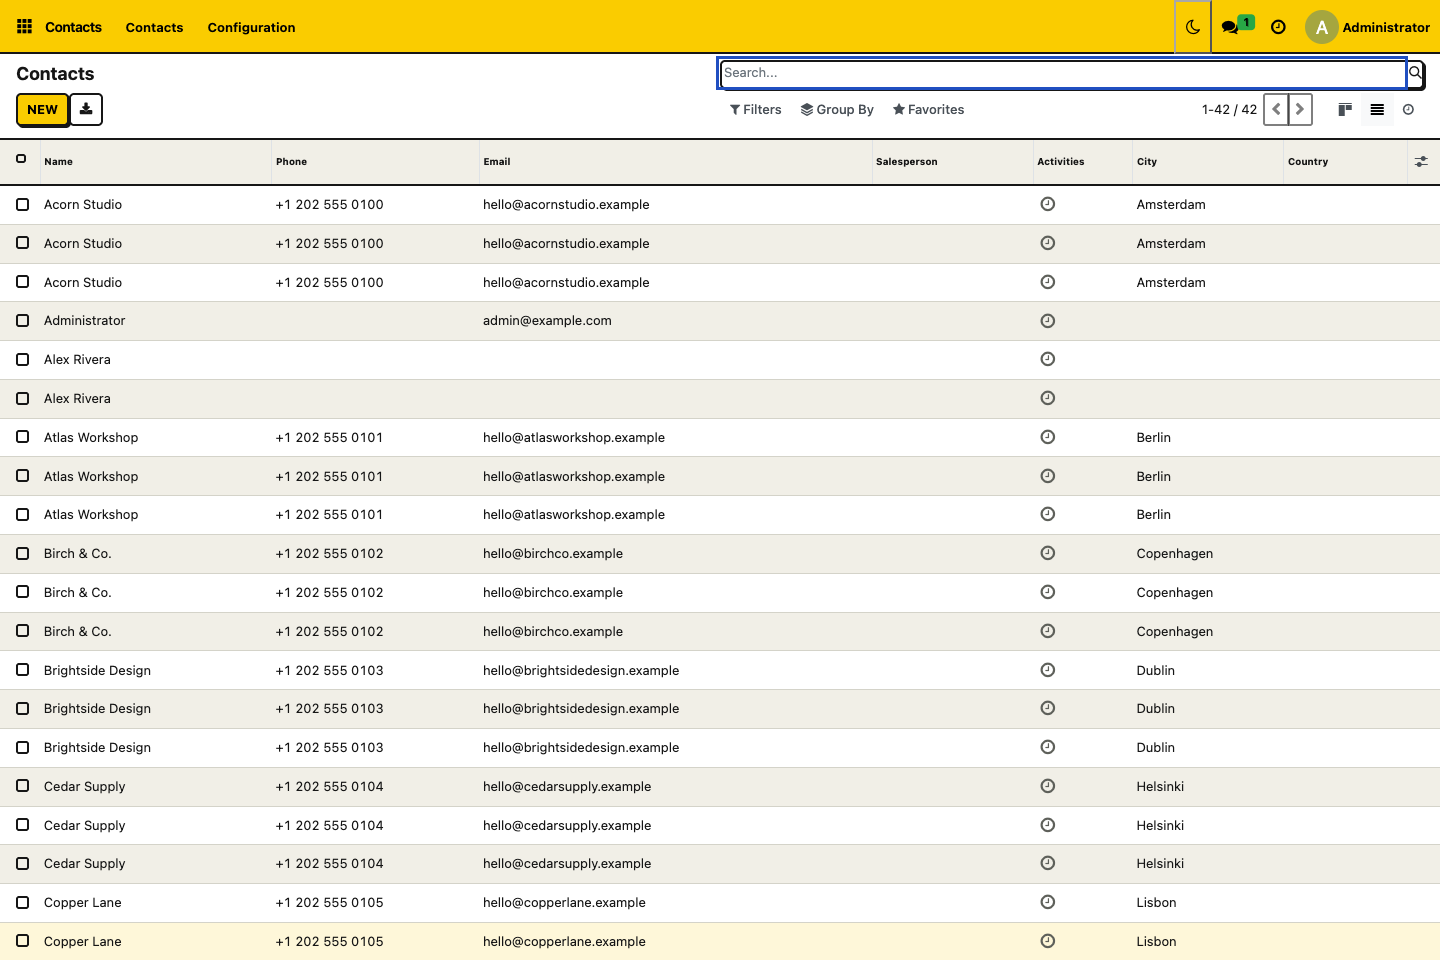
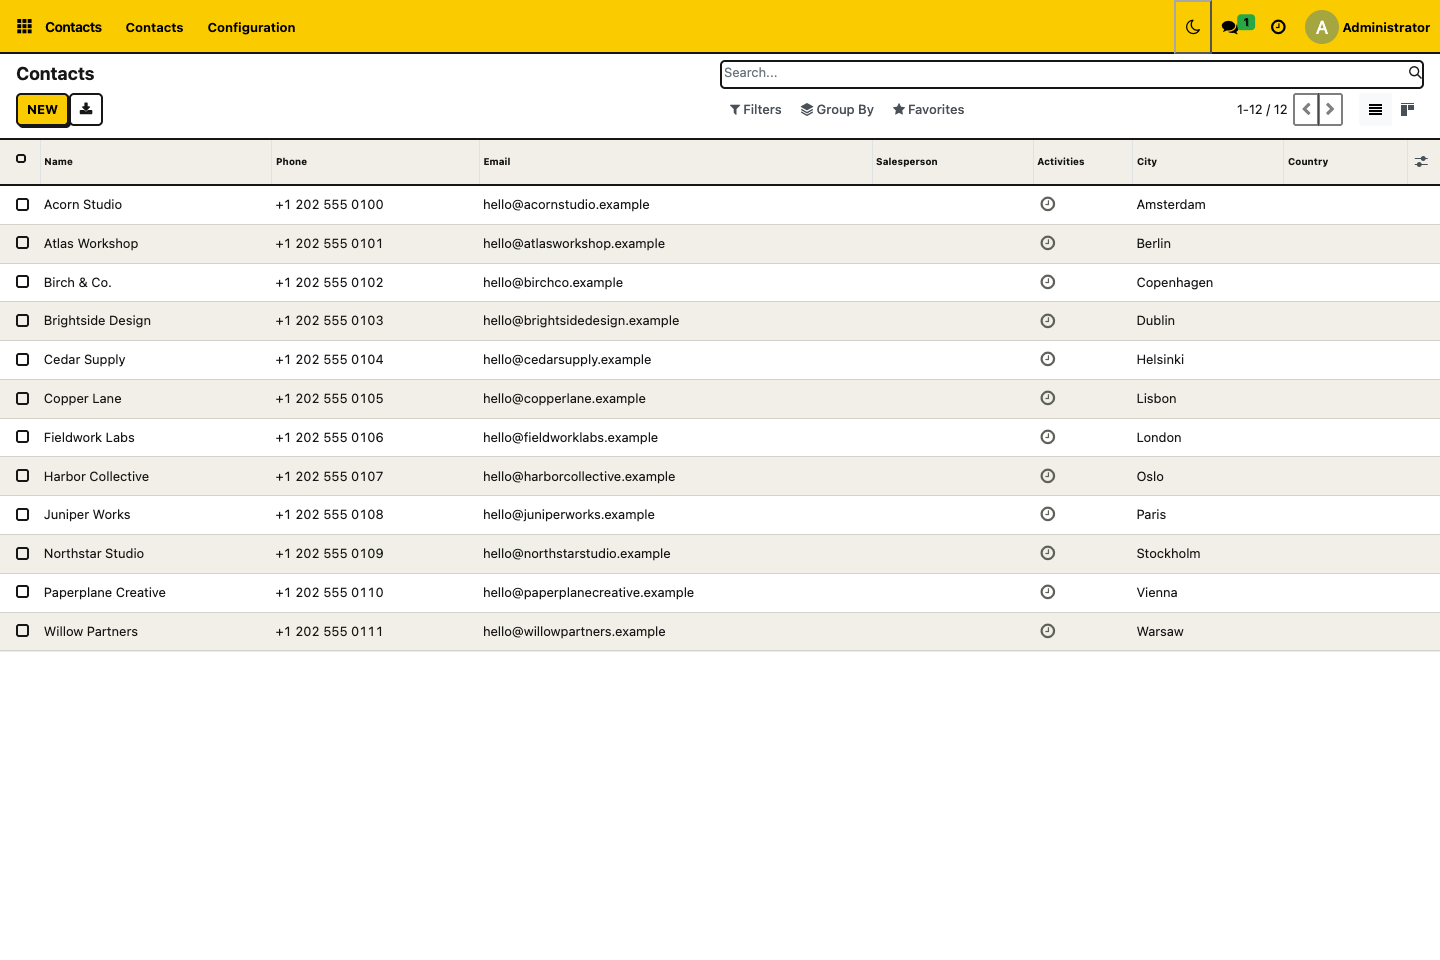
Add RivetFox branding to Odoo 16.0 marketplace artwork

diff --git a/tools/marketplace/motion.html b/tools/marketplace/motion.html
@@ -1,23 +1,25 @@
 <!doctype html>
 <html lang="en">
 <meta charset="utf-8"><title>Neo Brutal — actual screen comparisons</title>
+<link rel="stylesheet" href="../branding/brand.css">
 <style>
-*{box-sizing:border-box}body{margin:0;font-family:Arial,Helvetica,sans-serif;color:#161616;background:#f7f5ee}.canvas{position:relative;width:1120px;height:760px;border:3px solid #161616;overflow:hidden}.eyebrow{font:700 14px monospace;letter-spacing:1.5px}.title{font-size:42px;letter-spacing:-1.5px;font-weight:800;line-height:1.05;margin:13px 0}.header{position:absolute;top:26px;left:34px;right:34px;display:flex;justify-content:space-between;align-items:center}.modes{display:flex;border:2px solid #161616;box-shadow:4px 4px #161616;background:white}.modes span{font:700 14px monospace;padding:12px 19px}.modes .active{background:#facc00}.screen{border:3px solid #161616;box-shadow:8px 8px #161616;overflow:hidden;position:absolute;background:white}.screenbar{height:27px;background:#fff;border-bottom:2px solid #161616;font:700 10px monospace;padding:6px 12px;letter-spacing:.7px}.screenbody{position:relative;overflow:hidden;height:100%}.screen img{position:absolute;top:0;left:0;width:100%;display:block}.footer{position:absolute;bottom:23px;left:34px;right:34px;font:700 12px monospace;display:flex;justify-content:space-between}.daynight .screen{left:34px;top:120px;width:1044px;height:580px}.daynight .title{font-size:34px}.accent{--accent:#facc00}.accent .header{top:33px;display:block}.accent .title{font-size:45px}.accent .screen{left:330px;top:194px;width:739px;height:431px}.preset-list{position:absolute;top:210px;left:34px;display:grid;gap:9px}.preset{display:flex;align-items:center;width:247px;height:45px;border:2px solid transparent;font-size:18px;font-weight:700;gap:14px;padding:5px 10px}.preset i{display:block;width:32px;height:28px;border:2px solid #161616;background:var(--swatch)}.preset.active{border-color:#161616;background:white;box-shadow:4px 4px #161616}.preset.active:after{content:'✓';margin-left:auto}.number{position:absolute;right:43px;top:46px;font:700 15px monospace}.accent .screenbar{background:var(--accent)}
+*{box-sizing:border-box}body{margin:0;font-family:Arial,Helvetica,sans-serif;color:#161616;background:#f7f5ee}.canvas{position:relative;width:1120px;height:760px;border:3px solid #161616;overflow:hidden}.eyebrow{font:700 14px monospace;letter-spacing:1.5px}.title{font-size:42px;letter-spacing:-1.5px;font-weight:800;line-height:1.05;margin:13px 0}.header{position:absolute;top:26px;left:34px;right:34px;display:flex;justify-content:space-between;align-items:center}.modes{display:flex;border:2px solid #161616;box-shadow:4px 4px #161616;background:white}.modes span{font:700 14px monospace;padding:12px 19px}.modes .active{background:#facc00}.screen{border:3px solid #161616;box-shadow:8px 8px #161616;overflow:hidden;position:absolute;background:white}.screenbar{height:27px;background:#fff;border-bottom:2px solid #161616;font:700 10px monospace;padding:6px 12px;letter-spacing:.7px}.screenbody{position:relative;overflow:hidden;height:100%}.screen img{position:absolute;top:0;left:0;width:100%;display:block}.footer{align-items:center;position:absolute;bottom:10px;left:34px;right:34px;font:700 12px monospace;display:flex;justify-content:space-between}.daynight .screen{left:34px;top:120px;width:1044px;height:580px}.daynight .title{font-size:34px}.accent{--accent:#facc00}.accent .header{top:33px;display:block}.accent .title{font-size:45px}.accent .screen{left:330px;top:194px;width:739px;height:431px}.preset-list{position:absolute;top:210px;left:34px;display:grid;gap:9px}.preset{display:flex;align-items:center;width:247px;height:45px;border:2px solid transparent;font-size:18px;font-weight:700;gap:14px;padding:5px 10px}.preset i{display:block;width:32px;height:28px;border:2px solid #161616;background:var(--swatch)}.preset.active{border-color:#161616;background:white;box-shadow:4px 4px #161616}.preset.active:after{content:'✓';margin-left:auto}.number{position:absolute;right:43px;top:46px;font:700 15px monospace}.accent .screenbar{background:var(--accent)}
 </style>
 <div id="daynight" class="canvas daynight">
  <div class="header"><div><div class="eyebrow">PERSONAL DAY + NIGHT</div><h1 class="title">Same workspace. Your choice.</h1></div><div class="modes"><span id="day-label" class="active">DAY</span><span id="night-label">NIGHT</span></div></div>
  <div class="screen"><div class="screenbar">NEO BRUTAL / CONTACTS</div><div class="screenbody"><img id="day-screen" src="../../neobrutalism_theme/static/description/backend-list.png" alt="Contacts in day mode"><img id="night-screen" src="../../neobrutalism_theme/static/description/night-mode.png" alt="The same Contacts in night mode" style="clip-path:inset(0 100% 0 0)"></div></div>
- <div class="footer"><span>ONE PERSONAL SWITCH IN THE TOP BAR</span><span>REAL ODOO 16 COMMUNITY SCREENS</span></div>
+ <div class="footer"><div class="rf-lockup rf-mini"><img src="../branding/rivetfox-mark.svg" alt="RivetFox fox"><span class="rf-wordmark">rivetfox<span class="rf-period">.</span></span></div><span>REAL ODOO <span data-odoo-version>16</span> COMMUNITY SCREENS</span></div>
 </div>
 <div id="accents" class="canvas accent" style="display:none">
  <div class="header"><div class="eyebrow">ADMIN-MANAGED PRESETS</div><h1 class="title">One theme. Seven accents.</h1><p style="font-size:20px;margin:14px 0 0;color:#50534d">Matched highlights. Readable labels. A shared identity.</p></div><div class="number" id="counter">01 / 07</div>
  <div class="preset-list" id="presets"></div>
  <div class="screen"><div class="screenbar" id="accent-title">YELLOW / DAY MODE</div><div class="screenbody"><img id="accent-screen" src="screens/preset-yellow.png" alt="Actual Odoo accent preset"></div></div>
  <p style="position:absolute;left:333px;top:640px;font-size:16px;line-height:1.5;margin:0">Navigation, buttons and active tabs.<br>Business status colors stay independent.</p>
- <div class="footer"><span>SHARED COLORS. PERSONAL NIGHT MODE.</span><span>REAL ODOO 16 COMMUNITY SCREENS</span></div>
+ <div class="footer"><div class="rf-lockup rf-mini"><img src="../branding/rivetfox-mark.svg" alt="RivetFox fox"><span class="rf-wordmark">rivetfox<span class="rf-period">.</span></span></div><span>REAL ODOO <span data-odoo-version>16</span> COMMUNITY SCREENS</span></div>
 </div>
 <script src="title-motion.js"></script>
 <script>
+document.querySelectorAll('[data-odoo-version]').forEach(el=>el.textContent=new URLSearchParams(location.search).get('odoo')||'16');
 const presets=[['yellow','#facc00'],['blue','#5294ff'],['green','#5ad9aa'],['purple','#b59aff'],['pink','#ff91bc'],['orange','#ffb15c'],['red','#ff7474']];
 const accentMode=new URLSearchParams(location.search).get('type')==='accents';
 document.getElementById('daynight').style.display=accentMode?'none':'block';document.getElementById('accents').style.display=accentMode?'block':'none';

diff --git a/tools/cover.html b/tools/cover.html
@@ -2,10 +2,11 @@
 <html lang="en">
 <meta charset="utf-8">
 <title>Neo Brutal — animated marketplace cover</title>
+<link rel="stylesheet" href="branding/brand.css">
 <style>
 *{box-sizing:border-box}body{margin:0;font-family:Arial,Helvetica,sans-serif}
 .cover{--paper:#f7f5ee;--ink:#161616;--accent:#facc00;width:1120px;height:560px;overflow:hidden;position:relative;background:var(--paper);color:var(--ink);border:3px solid var(--ink)}
-.top{position:absolute;inset:28px 30px auto;display:flex;justify-content:space-between;align-items:center;font-size:14px;font-weight:800;letter-spacing:1px}
+.top{position:absolute;inset:26px 36px auto;display:flex;justify-content:space-between;align-items:center;font-size:14px;font-weight:800;letter-spacing:1px}
 .brand{display:flex;gap:12px;align-items:center}.mark{width:32px;height:32px;background:var(--ink);color:var(--paper);display:grid;place-items:center;font-size:22px;letter-spacing:-2px}.edition{border:2px solid var(--ink);padding:8px 12px;background:var(--paper);box-shadow:3px 3px var(--ink);font-size:13px;letter-spacing:.5px}
 .copy{position:absolute;left:38px;top:113px;z-index:2;width:420px}h1{font-size:100px;line-height:.91;letter-spacing:-7px;margin:0 0 27px;font-weight:900}h1 span{display:inline-block;background:var(--accent);color:#161616;border:3px solid #161616;box-shadow:6px 6px var(--ink);padding:0 10px 8px 4px;margin-top:10px;font-size:89px;letter-spacing:-6px}
 .tagline{font-size:26px;line-height:1.2;font-weight:700;margin:0 0 24px;letter-spacing:-.7px}.features{font:700 13px monospace;letter-spacing:.1px;display:flex;gap:8px}.features span{border:2px solid var(--ink);padding:8px 10px}
@@ -13,7 +14,7 @@
 .mode{position:absolute;right:25px;top:428px;background:var(--accent);color:#161616;border:3px solid #161616;box-shadow:5px 5px var(--ink);padding:12px 18px;font:800 20px monospace;transform:rotate(2deg);z-index:3}
 .bottom{position:absolute;bottom:25px;left:38px;right:32px;display:flex;align-items:center;justify-content:space-between}.free{font:700 12px monospace;letter-spacing:.7px}.swatches{display:flex;gap:7px}.swatches i{display:block;width:28px;height:22px;background:var(--color);border:2px solid #161616;box-shadow:2px 2px var(--ink)}
 .thumbnail{width:1000px;height:1210px}
-.thumbnail .top{inset:35px 42px auto;font-size:20px}.thumbnail .mark{width:40px;height:40px;font-size:27px}.thumbnail .edition{font-size:16px}
+.thumbnail .top{inset:34px 42px auto;font-size:20px}.thumbnail .mark{width:40px;height:40px;font-size:27px}.thumbnail .edition{font-size:16px}
 .thumbnail .copy{left:42px;top:120px;width:910px}.thumbnail h1{font-size:124px}.thumbnail h1 span{font-size:110px}
 .thumbnail .tagline{position:absolute;left:530px;top:104px;width:340px;font-size:31px}.thumbnail .features{font-size:20px;gap:12px}
 .thumbnail .stage{left:42px;right:auto;top:466px;width:900px;height:594px;transform:rotate(-1deg)}.thumbnail .chrome{height:35px;font-size:13px}.thumbnail .viewport{height:555px}
@@ -21,15 +22,16 @@
 .thumbnail .bottom{left:42px;right:42px;bottom:47px}.thumbnail .free{font-size:15px;letter-spacing:.3px}.thumbnail .swatches{gap:9px}.thumbnail .swatches i{width:34px;height:29px}
 </style>
 <div class="cover" id="cover">
- <div class="top"><div class="brand"><span class="mark">N.</span>RIVETFOX <span style="font-weight:400;letter-spacing:0">/ BACKEND THEME</span></div><div class="edition">ODOO 16 COMMUNITY</div></div>
+ <div class="top"><div class="rf-lockup"><img src="branding/rivetfox-mark.svg" alt="RivetFox fox"><span class="rf-wordmark">rivetfox<span class="rf-period">.</span></span></div><div class="edition">ODOO <span data-odoo-version>16</span> COMMUNITY</div></div>
  <div class="copy"><h1>NEO<br><span>BRUTAL.</span></h1><p class="tagline">Your Odoo.<br>With character.</p><div class="features"><span>7 ACCENTS</span><span>DAY + NIGHT</span></div></div>
- <div class="stage"><div class="chrome"><i class="dot"></i><i class="dot"></i><i class="dot"></i><b>YOUR EVERYDAY ODOO</b></div><div class="viewport"><img id="old" src="../neobrutalism_theme/static/description/backend-list.png" alt="Actual Odoo 16 Contacts list"><img id="next" class="view-new" src="../neobrutalism_theme/static/description/backend-list.png" alt="Alternate theme appearance"></div></div>
+ <div class="stage"><div class="chrome"><i class="dot"></i><i class="dot"></i><i class="dot"></i><b>YOUR EVERYDAY ODOO</b></div><div class="viewport"><img id="old" src="../neobrutalism_theme/static/description/backend-list.png" alt="Actual Odoo Contacts list"><img id="next" class="view-new" src="../neobrutalism_theme/static/description/backend-list.png" alt="Alternate theme appearance"></div></div>
  <div class="mode" id="mode">01 / DAY MODE</div>
  <div class="bottom"><div class="free">FREE + OPEN SOURCE / LGPL-3</div><div class="swatches"><i style="--color:#facc00"></i><i style="--color:#5294ff"></i><i style="--color:#5ad9aa"></i><i style="--color:#b59aff"></i><i style="--color:#ff91bc"></i><i style="--color:#ffb15c"></i><i style="--color:#ff7474"></i></div></div>
 </div>
 <script src="marketplace/title-motion.js"></script>
 <script>
 document.getElementById('cover').classList.toggle('thumbnail',new URLSearchParams(location.search).get('format')==='thumbnail');
+document.querySelectorAll('[data-odoo-version]').forEach(el=>el.textContent=new URLSearchParams(location.search).get('odoo')||'16');
 const scenes=[
  {src:'../neobrutalism_theme/static/description/backend-list.png',label:'01 / DAY MODE',paper:'#f7f5ee',ink:'#161616',accent:'#facc00'},
  {src:'../neobrutalism_theme/static/description/night-mode.png',label:'02 / NIGHT MODE',paper:'#202322',ink:'#f7f5ee',accent:'#facc00'},

diff --git a/tools/branding/brand.css b/tools/branding/brand.css
@@ -1,0 +1,9 @@
+/* Publisher identity shared by all RivetFox marketplace compositions. */
+@font-face{font-family:"RivetFox Brand";font-style:normal;font-weight:300 700;font-display:block;src:url("space-grotesk-latin.woff2") format("woff2")}
+.rf-lockup{--rf-logo:42px;--rf-type:30px;display:inline-flex;align-items:center;gap:9px;padding:7px 15px 7px 8px;border:1px solid #25252020;border-radius:13px;background:#fff8ed;color:#252520;line-height:1;white-space:nowrap}
+.rf-lockup img{display:block;flex:none;width:var(--rf-logo);height:var(--rf-logo)}
+.rf-wordmark{font-family:"RivetFox Brand",Arial,sans-serif;font-weight:700;font-size:var(--rf-type);letter-spacing:-1.6px}
+.rf-period{color:#da542a}
+.thumbnail .rf-lockup,.portrait .rf-lockup{--rf-logo:60px;--rf-type:42px;gap:12px;padding:8px 21px 8px 10px;border-radius:17px}
+.rf-mini{--rf-logo:28px;--rf-type:21px;padding:4px 10px 4px 5px;gap:6px;border-radius:10px}
+.rf-mini .rf-wordmark{letter-spacing:-1px}

diff --git a/neobrutalism_theme/__manifest__.py b/neobrutalism_theme/__manifest__.py
@@ -1,7 +1,7 @@
 {
     "name": "Neo Brutal Backend Theme",
     "summary": "Odoo 16 Community backend theme with dark mode and seven accent colors",
-    "version": "16.0.1.0.2",
+    "version": "16.0.1.0.3",
     "category": "Themes/Backend",
     "author": "RivetFox",
     "website": "https://rivetfox.pro",

diff --git a/PUBLISHING.md b/PUBLISHING.md
@@ -10,10 +10,10 @@ Use these repository URLs in the publisher account's [Submit your Apps and Theme
 
 | Odoo version | Git branch | Repository registration URL |
 | --- | --- | --- |
-| 16 | `16.0` | `ssh://git@github.com/Welgum/odoo-neobrutalism-theme#16.0` |
-| 17 | `17.0` | `ssh://git@github.com/Welgum/odoo-neobrutalism-theme#17.0` |
-| 18 | `18.0` | `ssh://git@github.com/Welgum/odoo-neobrutalism-theme#18.0` |
-| 19 | `19.0` | `ssh://git@github.com/Welgum/odoo-neobrutalism-theme#19.0` |
+| 16 | `16.0` | `ssh://git@github.com/Welgum/odoo-neobrutalism-theme.git#16.0` |
+| 17 | `17.0` | `ssh://git@github.com/Welgum/odoo-neobrutalism-theme.git#17.0` |
+| 18 | `18.0` | `ssh://git@github.com/Welgum/odoo-neobrutalism-theme.git#18.0` |
+| 19 | `19.0` | `ssh://git@github.com/Welgum/odoo-neobrutalism-theme.git#19.0` |
 
 The SSH URL plus `#branch` format follows the [Odoo Apps FAQ](https://apps.odoo.com/apps/faq). The repository is public. If it becomes private, authorize Odoo's scanner as described in the current FAQ before rescanning. `main` follows Odoo 19; use the four version branches for publication.
 
@@ -78,3 +78,11 @@ Scenes play at three times the original speed, rendered at 30 fps with a subtle 
 For updates, increase the version on the applicable branch, rerun validation, commit and push the branch, then rescan it in Odoo Apps. A local ZIP does not register or publish a marketplace listing.
 
 Official references checked for this preparation: [Vendor guidelines](https://apps.odoo.com/apps/vendor-guidelines), [Odoo Apps FAQ](https://apps.odoo.com/apps/faq), and [repository submission](https://apps.odoo.com/apps/upload).
+
+## Shared RivetFox identity — 2026-09-22
+
+`tools/branding/` contains the publisher’s website fox mark, a shared wordmark treatment and the locally bundled Space Grotesk font with its SIL OFL notice. These are renderer inputs only. All four promotional GIFs bake in the publisher identity; the listing stays static and local-only. Backend styles and theme-specific app icons are unchanged.
+
+Use the checkout’s own source screenshots. `render_marketplace.cjs` passes the manifest’s Odoo version to every composition; do not relabel newer-version screenshots for an older branch. Run `node tools/check_marketplace.cjs` after rendering and building to decode every GIF frame, verify dimensions/timing, exercise scene/loop rendering, check brand/font loading without network requests and inspect both preview widths.
+
+After pushing this artwork release, rescan each registered version branch in Odoo Apps to refresh the marketplace assets. A Git push alone does not confirm that the marketplace has imported the new images.

diff --git a/neobrutalism_theme/VALIDATION.md b/neobrutalism_theme/VALIDATION.md
@@ -1,4 +1,18 @@
-# Validation — 16.0.1.0.2
+# Validation — 16.0.1.0.3
+
+## RivetFox marketplace artwork — 2026-09-22
+
+This release updates promotional assets, rendering tools and package metadata. The runtime implementation and Odoo-version adapters are unchanged; the application tests documented below describe the preceding functional release and were not rerun for this artwork update.
+
+- All four GIFs decode completely with FFmpeg. Checked 1120 × 560 covers, 1000 × 1210 portrait cards and 1120 × 760 feature animations; encoded durations remain 3.00, 3.00, 2.67 and 4.67 seconds.
+- Playwright checks cover every scene, the composition at loop reset (allowing only tiny antialiased-edge rounding differences), correct Odoo 16 labels, and locally decoded RivetFox artwork and fonts. Renderer pages make no external requests and report no JavaScript errors.
+- Listing and thumbnail previews load all images without horizontal overflow at 1440px and 390px. The shared theme-family preview was also reviewed at catalog-card size.
+- The release builder validates manifest/image selection, static listing markup, asset paths, Python/XML syntax and ZIP integrity. Two builds of the final source produce identical SHA-256 checksums.
+- The shared fox and local render-font license are retained under `tools/branding/`. Only raster promotional assets enter the add-on; no additional runtime font, script or dependency is introduced.
+
+Visual review found that the old light Contacts image showed an unfiltered list with duplicate capture fixtures. It is now a byte-for-byte copy of this Odoo 16 branch’s existing complete twelve-record `tools/marketplace/screens/preset-yellow.png`. Cover, portrait and day/night assets were regenerated from that same-version capture.
+
+Reproduce with `node tools/render_marketplace.cjs`, `python3 tools/build_release.py`, then `node tools/check_marketplace.cjs`. Logs and review PNGs are under ignored `dist/`. These checks validate the repository artwork. The registered Odoo Apps branch must be rescanned after the Git push; marketplace scan and publication status are separate from local validation.
 
 ## Theme-card thumbnail fix — 2026-09-21
 

diff --git a/neobrutalism_theme/README.md b/neobrutalism_theme/README.md
@@ -6,7 +6,7 @@ Customize Odoo lists, forms, kanban boards and navigation, with dark styles for 
 
 **Repository:** [odoo-neobrutalism-theme](https://github.com/Welgum/odoo-neobrutalism-theme) · **Author:** [RivetFox](https://rivetfox.pro) · **License:** [LGPL-3.0-or-later](LICENSE)
 
-**Version:** `16.0.1.0.2` · **Odoo module:** `neobrutalism_theme` · **Dependencies:** `web`, `base_setup`.
+**Version:** `16.0.1.0.3` · **Odoo module:** `neobrutalism_theme` · **Dependencies:** `web`, `base_setup`.
 
 [Features](#odoo-backend-theme-features) · [Screenshots](#odoo-theme-screenshots) · [Installation](#install-the-odoo-theme-with-docker-or-on-a-vps) · [Colors and dark mode](#customize-odoo-theme-colors-and-dark-mode) · [FAQ](#frequently-asked-questions-and-troubleshooting)
 
@@ -67,7 +67,7 @@ The names and paths below are examples. Use your existing Compose project and Od
    ```bash
    cd /path/to/your/compose-project
    mkdir -p addons
-   unzip /path/to/neobrutalism_theme-16.0.1.0.2.zip -d addons
+   unzip /path/to/neobrutalism_theme-16.0.1.0.3.zip -d addons
    ```
 
 2. If your deployment has no custom add-ons mount, **add** this entry to its Odoo service's existing `volumes` list. Preserve its other mounts:

diff --git a/README.md b/README.md
@@ -63,3 +63,9 @@ The builder validates the manifest, description, asset paths and images, then wr
 Developed by **[RivetFox](https://rivetfox.pro)**. Source: [Welgum/odoo-neobrutalism-theme](https://github.com/Welgum/odoo-neobrutalism-theme).
 
 Licensed under **[LGPL-3.0-or-later](LICENSE)**. The visual design is inspired by [ekmas/neobrutalism-components](https://github.com/ekmas/neobrutalism-components); its MIT attribution is preserved in [THIRD_PARTY_NOTICES.md](THIRD_PARTY_NOTICES.md).
+
+## RivetFox marketplace artwork
+
+The covers, portrait catalog thumbnails and feature animations share RivetFox’s orange fox and lowercase wordmark. Source artwork and licensed local render fonts live in `tools/branding/`; the Odoo interface does not load them. See `tools/branding/README.md` for provenance.
+
+Regenerate with `node tools/render_marketplace.cjs`, build with `python3 tools/build_release.py`, then validate all scenes and encoded animations with `node tools/check_marketplace.cjs` (Playwright, Chrome and FFmpeg required). The renderer reads the Odoo version from the manifest and uses that checkout’s own real screenshots.

diff --git a/tools/branding/README.md b/tools/branding/README.md
@@ -1,0 +1,7 @@
+# RivetFox marketplace identity
+
+The fox artwork is the header mark from https://rivetfox.pro/, retrieved on 2026-09-22 and reused for the publisher’s own theme artwork at their request. The SVG geometry and orange/cream colors are preserved; its ink is fixed to the site’s `#252520` for predictable rendering. The lowercase wordmark and orange period follow the site.
+
+`space-grotesk-latin.woff2` is the same Space Grotesk Latin variable font served by that site. Its SIL Open Font License is retained in `OFL-Space-Grotesk.txt`; source: https://github.com/google/fonts/tree/main/ofl/spacegrotesk.
+
+These files are local, reproducible inputs to the promotional renderers only. They are not loaded by Odoo or embedded as executable content in marketplace HTML. Rendered GIFs/PNGs carry the publisher mark; the app icons remain theme-specific. Keep this directory identical in both theme repositories.

diff --git a/THIRD_PARTY_NOTICES.md b/THIRD_PARTY_NOTICES.md
@@ -27,3 +27,7 @@ LIABILITY, WHETHER IN AN ACTION OF CONTRACT, TORT OR OTHERWISE, ARISING FROM,
 OUT OF OR IN CONNECTION WITH THE SOFTWARE OR THE USE OR OTHER DEALINGS IN THE
 SOFTWARE.
 ```
+
+## Marketplace publisher artwork and render font
+
+The fox mark and wordmark treatment come from the publisher’s own [RivetFox website](https://rivetfox.pro/) and were added at the publisher’s request. The source is retained under `tools/branding/`. Space Grotesk is used only to rasterize promotional artwork; its SIL Open Font License is included at `tools/branding/OFL-Space-Grotesk.txt`. Neither the font nor a new font request is added to Odoo runtime assets.

diff --git a/neobrutalism_theme/CHANGELOG.md b/neobrutalism_theme/CHANGELOG.md
@@ -1,5 +1,13 @@
 # Changelog
 
+## 16.0.1.0.3 — 2026-09-22
+
+- Use this version’s complete twelve-record Contacts capture in the light preview.
+
+- Add the RivetFox website fox and wordmark consistently to marketplace covers, portrait thumbnails and feature GIFs.
+- Keep local, licensed brand assets with the reproducible renderers; derive version badges from the manifest.
+- Preserve each Odoo version’s real source screenshots and the unique animated theme-card image selector.
+
 ## 16.0.1.0.2 — 2026-09-21
 
 - Fix the Odoo Apps theme-card image selector: use the animated `theme_screenshot.gif` instead of the static Contacts screenshot.
